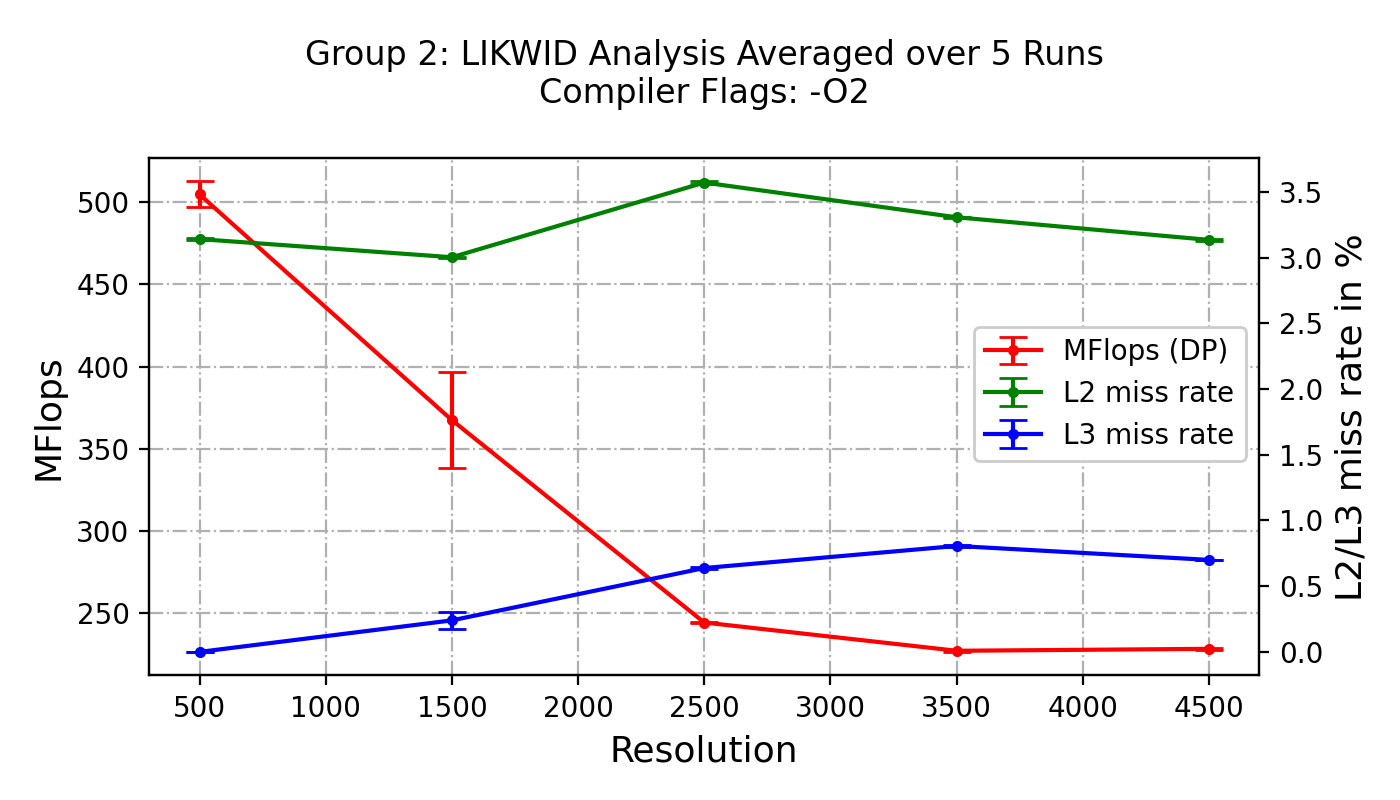
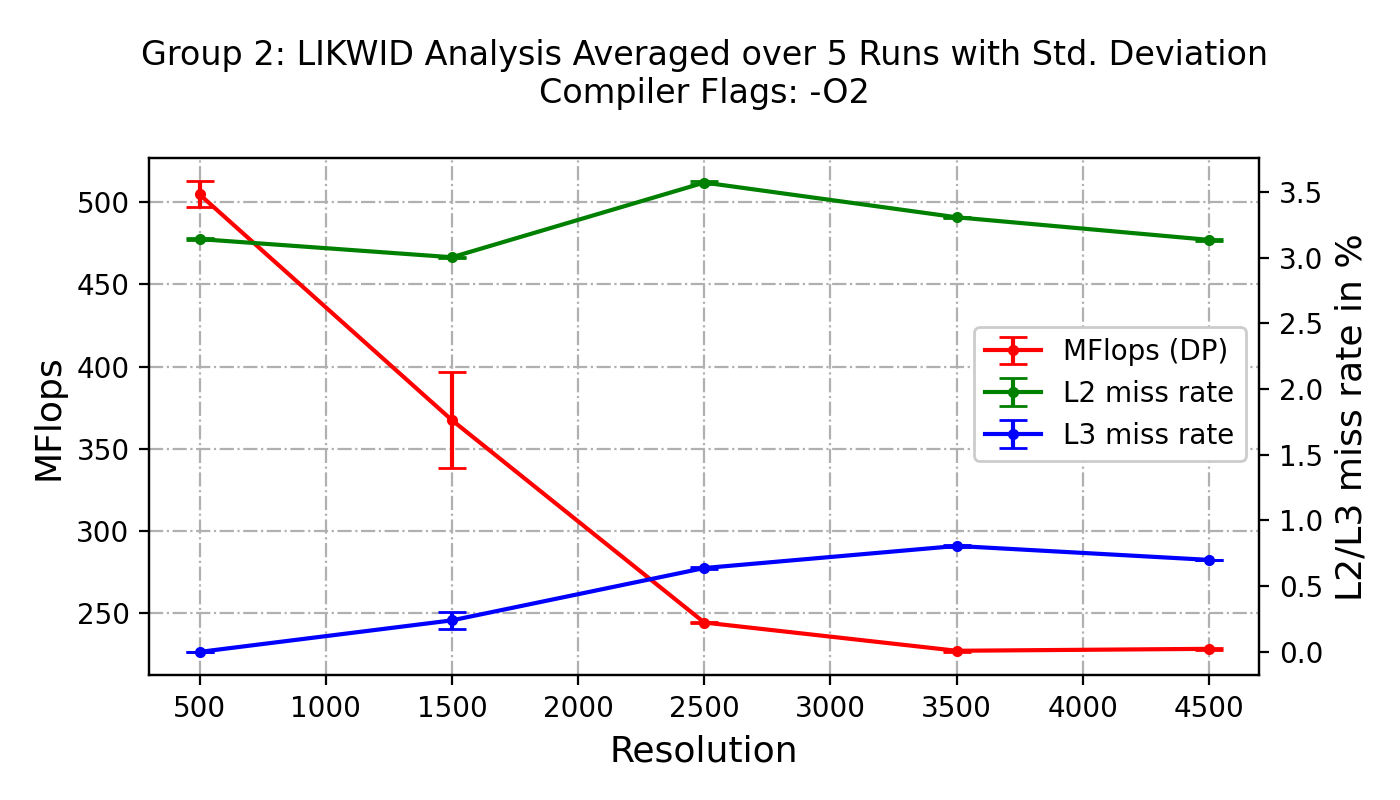
Add confidence interval explanation

Changed region(s): [[0.0921, 0.0312, 0.9214, 0.0938]]

diff --git a/2/plots/plot.py b/2/plots/plot.py
@@ -83,7 +83,7 @@ L3_plot = ax2.errorbar(resolutions, np.average(O3_L3_miss_rate_5runs, axis=0),
              yerr=np.std(O3_L3_miss_rate_5runs, axis=0),
              capsize=5, fmt='.-', color='blue', label="L3 miss rate")
 
-ax1.set_title("Group 2: LIKWID Analysis Averaged over 5 Runs\nCompiler Flags: -O3 -fno-alias -xhost\n")
+ax1.set_title("Group 2: LIKWID Analysis Averaged over 5 Runs with Std. Deviation\nCompiler Flags: -O3 -fno-alias -xhost\n")
 ax1.grid(True, linestyle='-.')
 ax1.legend(handles=[mflops_plot, L2_plot, L3_plot], framealpha=1,
            bbox_to_anchor=(1, 0.7))
@@ -116,7 +116,7 @@ L3_plot = ax2.errorbar(resolutions, np.average(O2_L3_miss_rate_5runs, axis=0),
              capsize=5, fmt='.-', color='blue', label="L3 miss rate")
 
 
-ax1.set_title("Group 2: LIKWID Analysis Averaged over 5 Runs\nCompiler Flags: -O2\n")
+ax1.set_title("Group 2: LIKWID Analysis Averaged over 5 Runs with Std. Deviation\nCompiler Flags: -O2\n")
 ax1.grid(True, linestyle='-.')
 ax1.legend(handles=[mflops_plot, L2_plot, L3_plot], framealpha=1,
            bbox_to_anchor=(1, 0.7))
